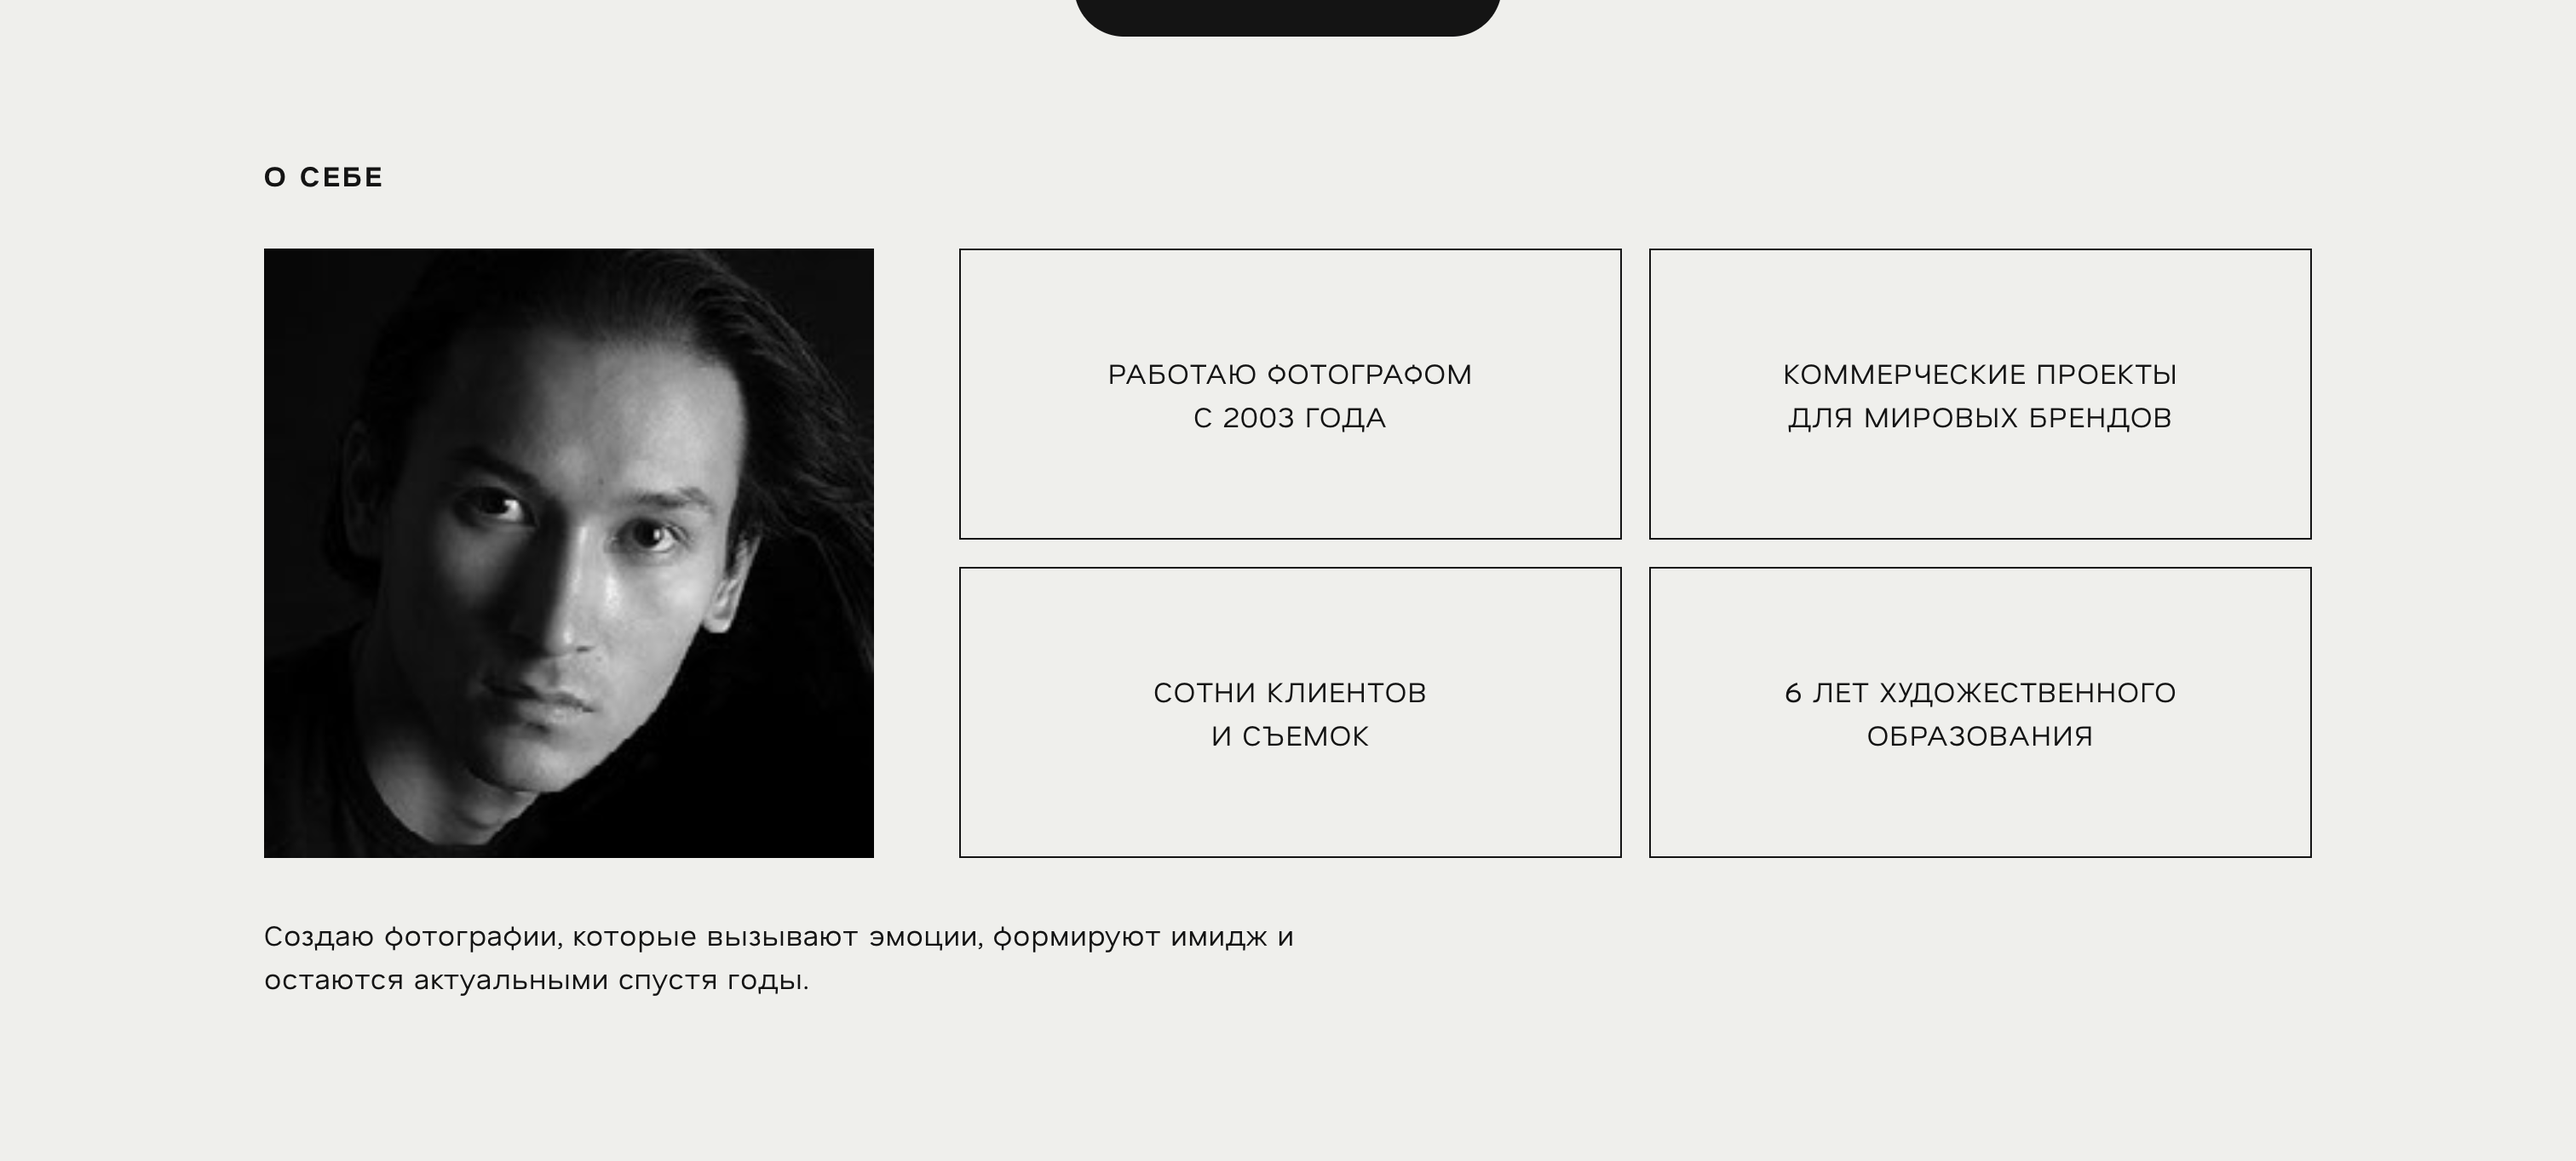
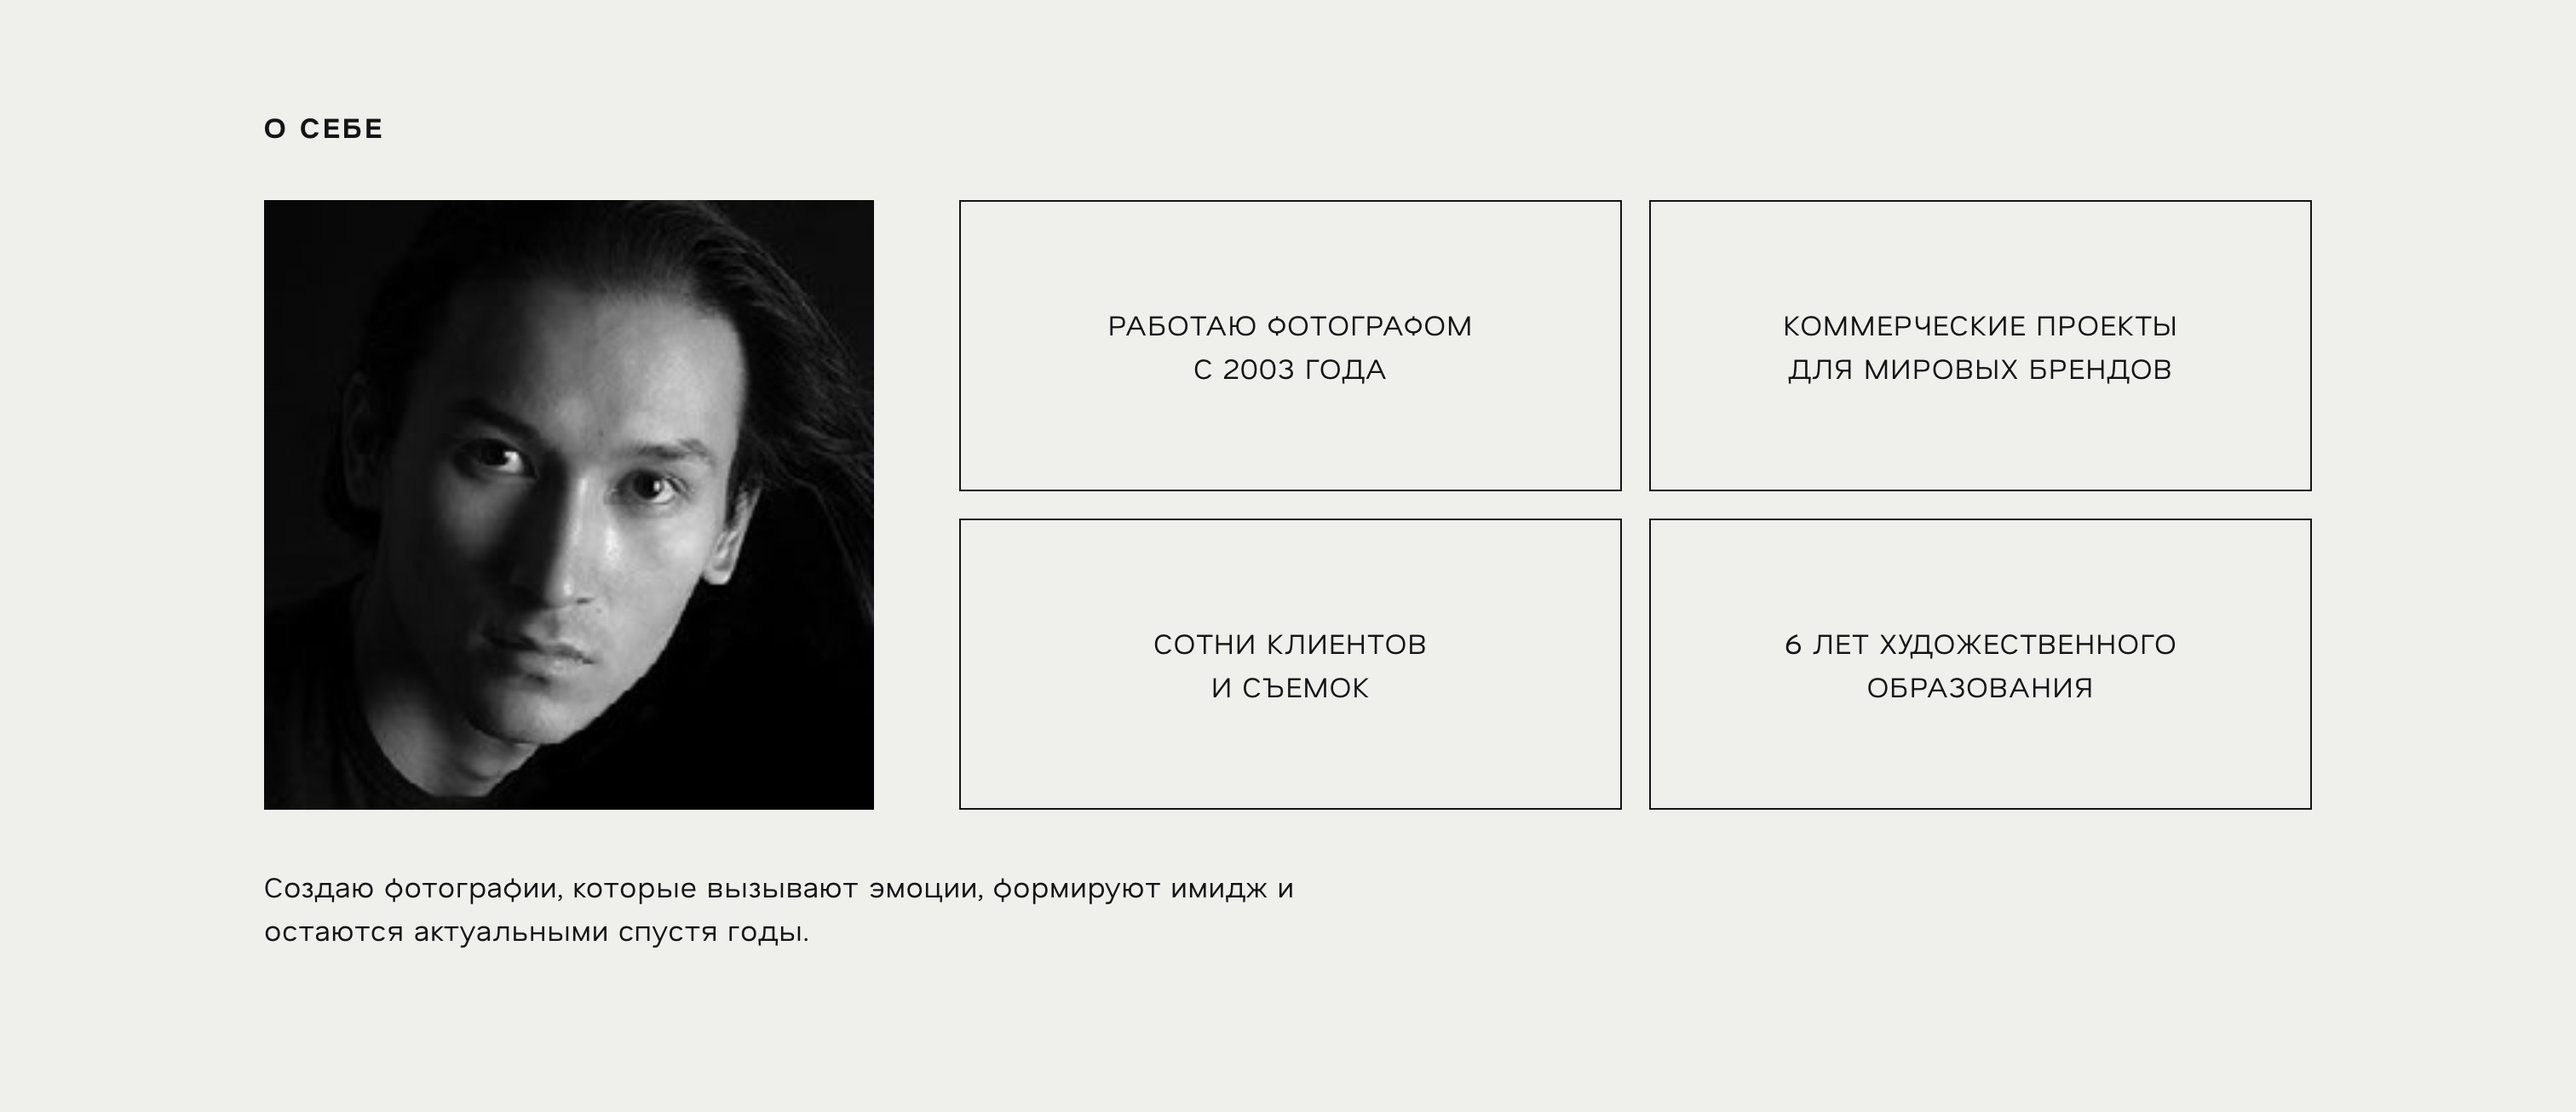
better type

diff --git a/project-ergoscan.html b/project-ergoscan.html
@@ -39,7 +39,6 @@
     <!-- ── HERO ── -->
     <div class="project-hero reveal">
       <div class="project-hero-left">
-        <p class="project-tag">Description</p>
         <h1 class="project-title">ErgoScan</h1>
         <p class="project-subtitle">Creating, designing and developing an app that helps to analyze and improve workspace ergonomics.<br /><br />
         ErgoScan is an iOS app that measures your workspace with AR and analyzes it with AI, so you can fix your setup yourself. No expert, no cost.</p>
@@ -255,12 +254,12 @@
 
     <!-- ── REFLECTION ── -->
     <section class="project-section reveal">
-      <h2 class="project-section-label">Reflection</h2>
+      <h2 class="project-section-label">Feedback</h2>
       <figure class="feedback">
         <img class="feedback-logo" src="img/ergoscan/ergoscan-logo.webp" alt="ErgoScan app icon" width="72" height="72" loading="lazy">
         <div>
           <blockquote class="feedback-quote">“[ErgoScan] clearly explained both the problem and how the design solved it.”</blockquote>
-          <figcaption class="feedback-source">RGD Student Awards 2026 — feedback</figcaption>
+          <figcaption class="feedback-source">RGD Student Awards 2026 judge feedback</figcaption>
         </div>
       </figure>
     </section>

diff --git a/project.css b/project.css
@@ -28,7 +28,7 @@ nav { background: #000; }
 .project-tag {
   font-size: 11px;
   font-weight: 400;
-  letter-spacing: 0.22em;
+   letter-spacing: 0.02em;
   text-transform: uppercase;
   opacity: 0.4;
   margin-bottom: 18px;
@@ -57,11 +57,9 @@ nav { background: #000; }
   min-width: 160px;
 }
 .meta-label {
-  font-size: 11px;
-  font-weight: 400;
-  letter-spacing: 0.22em;
-  text-transform: uppercase;
-  opacity: 0.4;
+  font-size: 15px;
+  font-weight: 500;
+  letter-spacing: 0.02em;
   margin-bottom: 10px;
 }
 .meta-value,
@@ -382,24 +380,22 @@ nav { background: #000; }
   left: 0; right: 0;
   padding-top: 24px;
   border-top: 1px solid #1f1f1f;
-  font-size: 12px;
+  font-size: 14px;
   font-weight: 300;
   line-height: 1.75;
   letter-spacing: 0.02em;
-  opacity: 0.65;
 }
 .stitch-note:first-child { border-top: none; padding-top: 0; }
 .stitch-num {
   display: block;
-  font-size: 11px;
-  letter-spacing: 0.22em;
-  opacity: 0.6;
+  font-size: 13px;
+  letter-spacing: 0.04em;
   margin-bottom: 10px;
 }
 .stitch-note strong {
   display: block;
   font-weight: 500;
-  font-size: 13px;
+  font-size: 15px;
   letter-spacing: 0.04em;
   margin-bottom: 6px;
 }

diff --git a/index.html b/index.html
@@ -89,7 +89,7 @@
             <span class="wip-badge">In progress</span>
           </div>
           <h3 class="work-title">Prollen</h3>
-          <p class="work-desc">Work in progress</p>
+          <p class="work-desc">Creating, designing and developing a pollen forecast app.</p>
         </article>
         <article class="work-card work-card--small work-card--wip" aria-disabled="true">
           <div class="work-image work-image--wip">
@@ -97,7 +97,7 @@
             <span class="wip-badge">In progress</span>
           </div>
           <h3 class="work-title">ORI</h3>
-          <p class="work-desc">Work in progress</p>
+          <p class="work-desc">Creating, designing and developing and app for learning and practicing yoga.</p>
         </article>
       </div>
 

diff --git a/project-02.html b/project-02.html
@@ -36,10 +36,8 @@
 
     <div class="project-hero reveal">
       <div class="project-hero-left">
-        <p class="project-tag">Description</p>
         <h1 class="project-title">Photography Portfolio</h1>
         <p class="project-subtitle">Designed and developed a professional photography portfolio website for Emil Amriev - a professional fashion and commercial photographer based in Almaty.</p>
-        <p class="meta-list">GO TO THE WEBSITE</p>
       </div>
       <div class="project-meta">
         <div class="meta-group">
